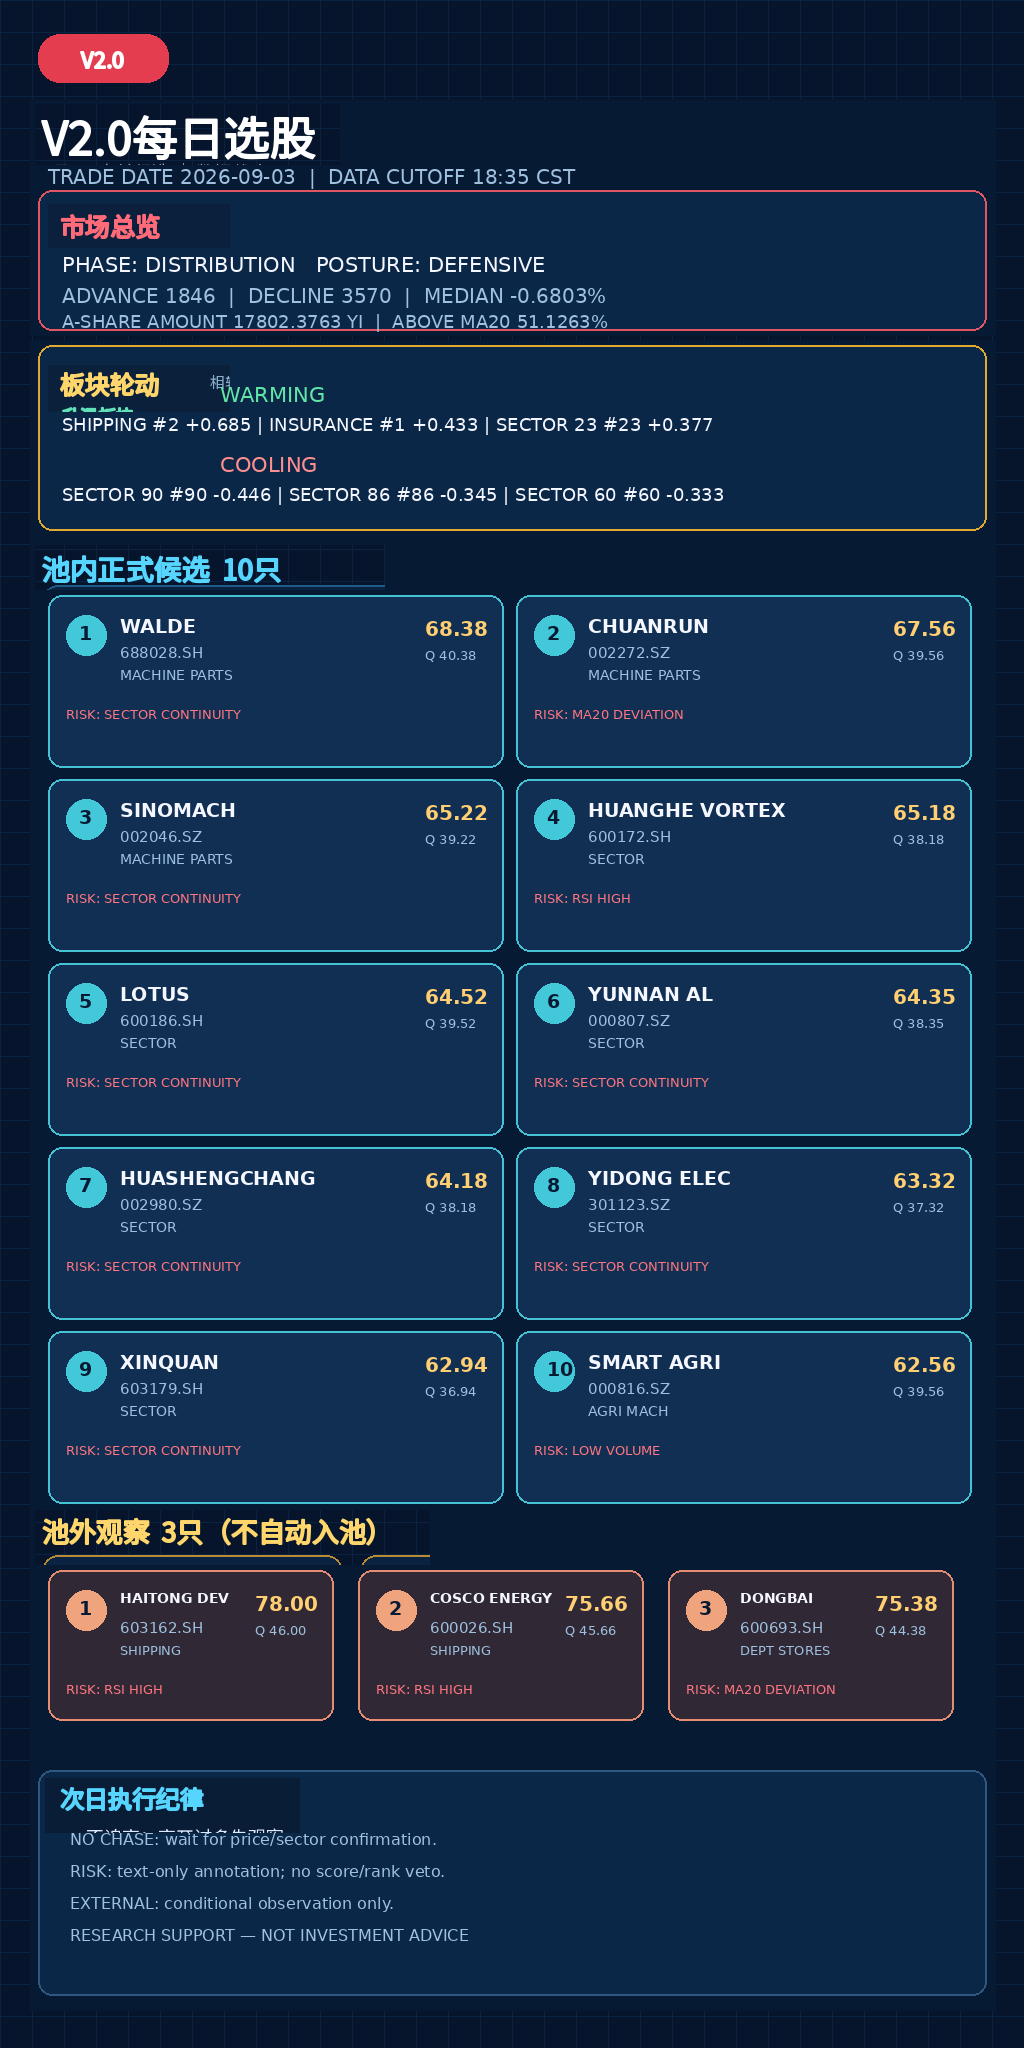
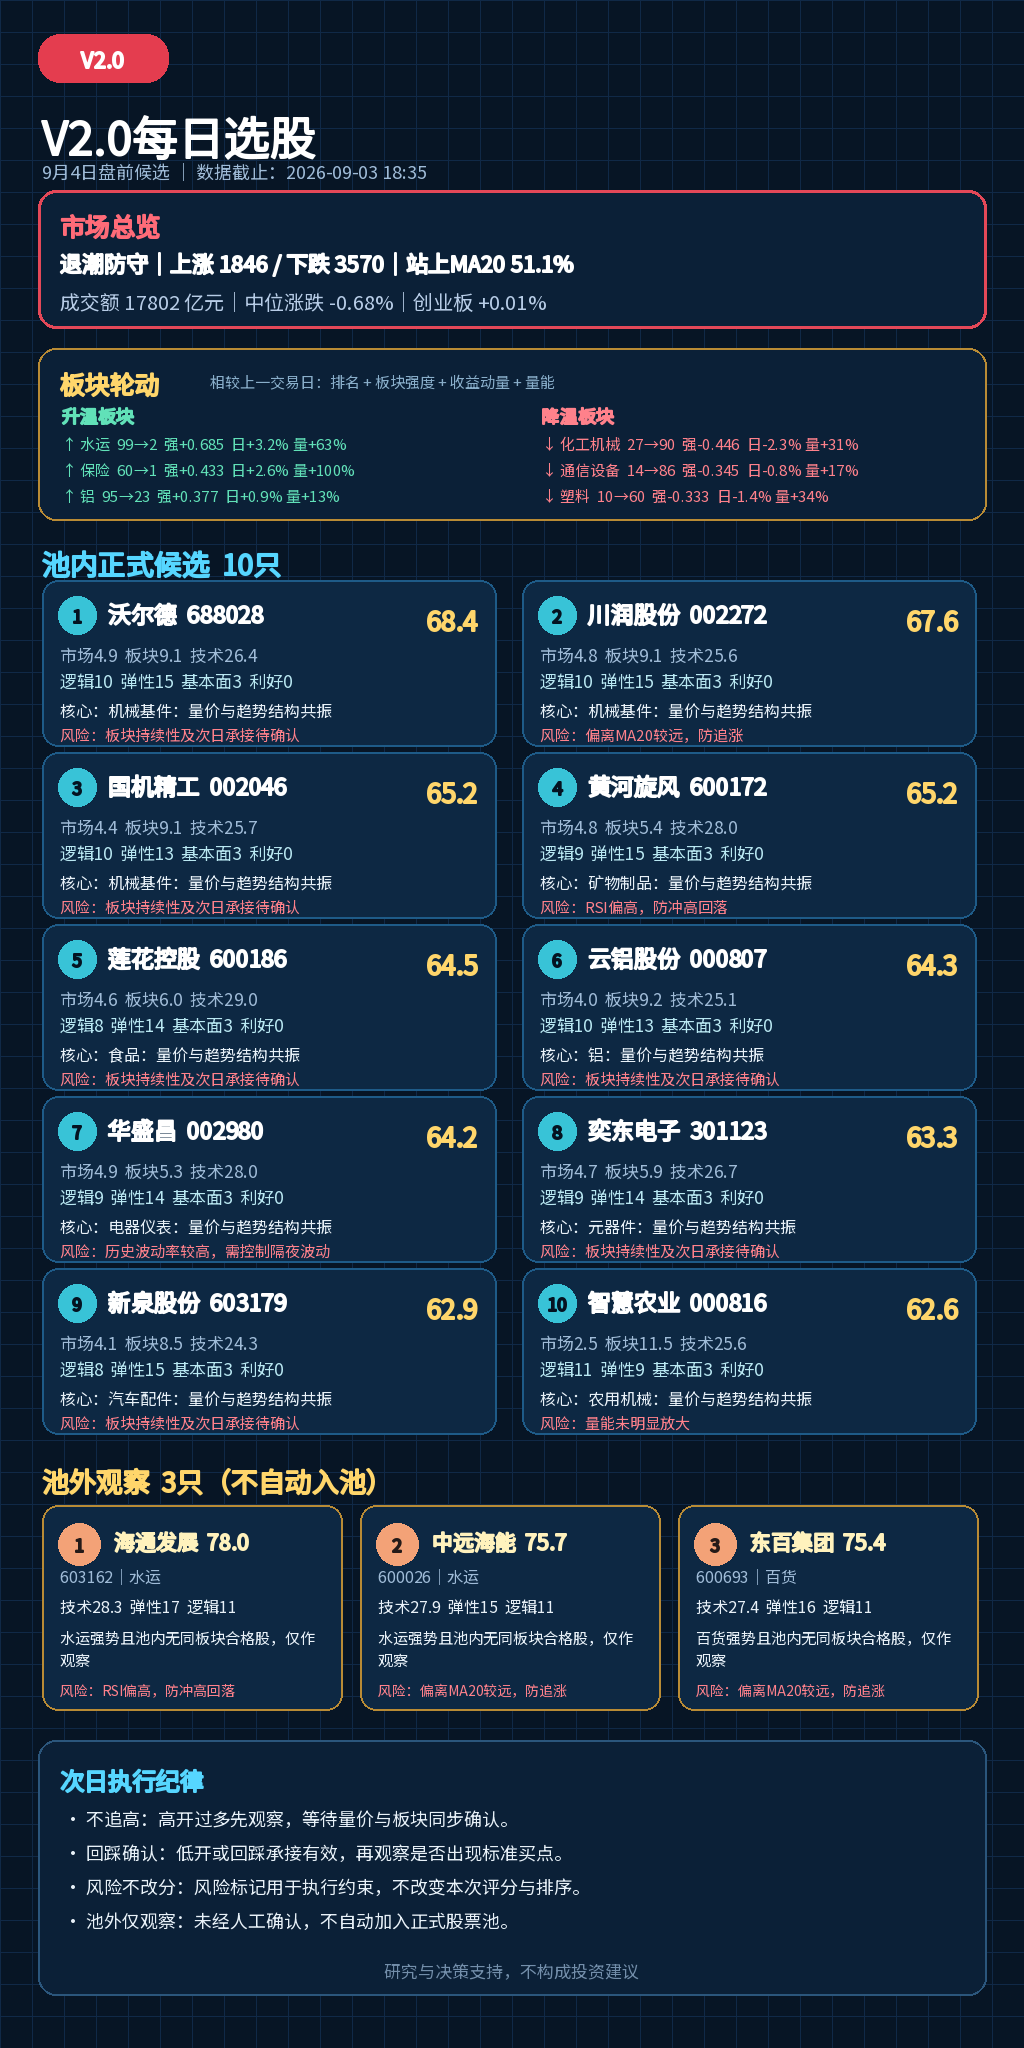
fix and lock V2.0 PNG dashboard style

Changed region(s): [[0.0312, 0.125, 0.9688, 0.9688], [0.0625, 0.0625, 0.4375, 0.0938], [0.5938, 0.9375, 0.625, 0.9688]]

diff --git a/V2_REVIEW_WORKFLOW.md b/V2_REVIEW_WORKFLOW.md
@@ -25,6 +25,35 @@
 5. 任一阶段失败都必须输出可见回执，说明失败阶段、已完成阶段和可恢复起点。最终状态只允许“已完成”“结果未变化”“数据未就绪”“执行失败”。不得静默结束。
 6. 同一trade_date和bundle哈希已有成功结果时，直接输出“结果未变化”并重新提供该日结果，不重复检索和评分。
 
+
+### V2.0 PNG 固定样式契约（唯一有效）
+
+PNG样式版本：`v2.0-dashboard-20260904`。今后主终审、有限重试和交付复核必须使用同一契约；样式失败只修复制图，不重做终审评分。
+
+1. 数据来源与内容边界
+   - PNG只能直接读取已通过校验的当日正式结果JSON；不得从旧PNG、旧日期结果、旧版脚本或英文临时表复制内容。
+   - 标题固定为“V2.0每日选股”；副标题使用下一有效交易日“X月X日盘前候选｜数据截止：YYYY-MM-DD HH:MM”。
+   - 股票名称、板块名称、栏目标题和说明必须使用真实中文；禁止用英文音译、英文占位词或空字形替代。技术缩写仅允许V2.0、MA20、RSI、VWAP及股票代码。
+   - 展示数量、名称、代码、板块和综合分必须与正式JSON的`final_selection`逐项一致；池内最多10只，池外最多3只，池外必须明确“不自动入池”。
+
+2. 画布、字体与配色
+   - 输出格式固定为PNG，RGB，尺寸固定为1024×2048。
+   - 背景固定为深蓝`#071525`，使用32px间距的低对比度网格`#102947`。
+   - 面板使用`#0B2037`，候选卡片使用`#0D2843`，边框使用`#1E5B88`；标题/分区使用`#56D6FF`、`#FFD66B`、`#FF6B78`，综合分使用`#FFD66B`，风险使用`#FF818B`。
+   - 中文字体优先使用可验证的NotoSansSC/NotoSansCJK SC；必须先验证中文粗体字形非空。粗体文件不可用时，使用同一份可验证中文常规字体加描边；禁止静默回退到拉丁字体、方框或英文音译。
+
+3. 固定版式（自上而下不得改变）
+   - 顶部：V2.0徽章、主标题、下一交易日副标题。
+   - 第一面板：`市场总览`，展示市场阶段/姿态、上涨/下跌家数、站上MA20比例、成交额、中位涨跌和创业板当日涨跌。
+   - 第二面板：`板块轮动`，必须左右分列`升温板块`和`降温板块`；各展示3个代表板块，且每行展示相邻交易日昨日排名→今日排名、板块强度变化、当日收益动量和量能变化。
+   - 第三部分：`池内正式候选`，固定两列卡片、最多五行；每张卡片展示排名、中文名称、股票代码、市场/板块/技术分、逻辑纯度/弹性/基本面/重大利好分、核心理由和风险文字。
+   - 第四部分：`池外观察`，固定三列卡片、最多一行；每张卡片展示排名、中文名称、股票代码、板块、技术/弹性/逻辑分、池外准入理由和风险文字。
+   - 底部：`次日执行纪律`，固定包含不追高、回踩确认、风险不改分、池外仅观察四条说明及免责声明。
+
+4. 视觉验收
+   - 生成后必须按原始1024×2048尺寸检查：中文标题、股票名称、栏目、排名、分数均可见；无英文音译、空字形、文字溢出、相邻卡片覆盖或日期混用。
+   - 必须核对PNG中的池内/池外数量、名称、代码、综合分、板块轮动三行与正式JSON一致。
+   - 视觉检查失败时，保留正式JSON，仅重新制图；不得重新检索、重新评分或调用旧版本流程。
 四、持久交付与完成定义
 1. 每次运行无论状态如何，都必须把机器可读回执写入私有GitHub仓库 zippobb/stock-key10-bridge。日期归档路径固定为 delivery/YYYY/MM/key10_review_receipt_YYYYMMDD.json，最新指针固定为 latest/key10_review_receipt_latest.json；若同路径已存在，先读取当前SHA再更新，禁止盲目覆盖。
 2. 回执字段至少包含：run_date、started_at、finished_at、status、trade_date、bundle_sha256、completed_stage、failure_stage、missing_items、result_json_path、png_delivery_status、summary。status只允许“已完成”“结果未变化”“数据未就绪”“执行失败”。

diff --git a/PROJECT_STATE.md b/PROJECT_STATE.md
@@ -6,10 +6,10 @@
 ## 元数据
 
 - 状态文件版本：1.0
-- 最后更新：2026-09-04 01:26 Asia/Shanghai
+- 最后更新：2026-09-04 08:55 Asia/Shanghai
 - GitHub 仓库：`zippobb/stock-key10-bridge`
 - 服务器项目目录（2026-09-02实时验证）：`/opt/stock-automation/scanner`
-- 当前总体状态：V2.0替代关系已确认为唯一现行权威；ECS与ChatGPT时间链路已统一，等待下一交易日端到端验收；正式JSON/PNG仍由ChatGPT终审任务生成
+- 当前总体状态：V2.0替代关系已确认为唯一现行权威；ECS与ChatGPT时间链路已统一；20260903端到端验收已完成，正式JSON/PNG由ChatGPT终审任务生成，PNG样式已固化为`v2.0-dashboard-20260904`
 
 ## 权威性与冲突处理
 
@@ -91,6 +91,15 @@
 - 不得把任务“已设置”当成任务“已成功执行”。
 - 成功、结果未变化、数据未就绪、执行失败均应提供用户可见回执；没有可见回执不得视为交付完成。
 
+
+### V2.0 PNG固定样式
+
+- 样式版本：`v2.0-dashboard-20260904`，适用于主终审、有限重试和交付复核。
+- 画布：PNG、RGB、1024×2048；深蓝背景`#071525`及32px低对比度网格。
+- 字体：可验证的NotoSansSC/NotoSansCJK SC；粗体字形为空时使用常规中文字体加描边；不得使用拉丁字体、英文音译或空字形。
+- 版式：顶部标题/日期；市场总览；左右分列的升温/降温板块轮动；两列池内正式候选卡片；三列池外观察卡片；底部次日执行纪律。
+- 内容：真实中文股票名称和板块，池内最多10只、池外最多3只；每张卡片展示排名、代码、综合分、评分摘要、理由和风险；风险只作文字标记。
+- 验收：原始尺寸视觉检查通过后才可交付；不得出现文字溢出、卡片覆盖、日期混用、英文音译、空字形或旧候选内容；样式失败只修PNG，不重做JSON和评分。
 ## 当前已验证快照
 
 ### GitHub数据
@@ -172,12 +181,12 @@
 
 ## 最新桥接实时核验
 
-实时检查时间：2026-09-04 00:26 Asia/Shanghai。
+实时检查时间：2026-09-04 08:55 Asia/Shanghai。
 
 - GitHub `latest/manifest.json)：`status=success`、`trade_date=20260903`、`schema_version=2.0.0`，量化 bundle 已发布。
 - bundle：`model_version=V2.0`、`stage=21:30_quantitative_review_payload`、`future_data_rows_used=0`、正式池30只、外部池10只。
-- 20260903 正式结果 JSON、日期回执和最终 PNG 当前尚未生成。
-- `latest/key10_review_receipt_latest.json` 仍指向20260902已完成结果；下一次主终审应处理20260903最新 bundle，并生成对应正式结果与PNG。
+- 20260903 正式结果 JSON、日期回执和最终 PNG 已生成并完成回读校验。
[1 lines of base64/hex data omitted]
 - 当前工作会话未能直接访问 ECS，服务器 timer/service 状态待下一次服务器连接验收；本段只确认 GitHub 桥接状态。
 
 ## 本次实时调度重排核验
@@ -228,6 +237,8 @@
 - 结论：第1项全链路验收完成；服务器生成→GitHub发布→ChatGPT读取→终审JSON→PNG→持久回执→可见交付已贯通。
 
 ## 变更记录
+
[1 lines of base64/hex data omitted]
 
 - 2026-09-02：在用户确认完全替代后，从数据门槛检查点恢复并完成20260902终审；结果JSON为`review/2026/09/key10_review_20260902.json`，池内10只、池外3只，PNG为1024×2048且视觉检查通过，日期与latest回执已写入。
 
